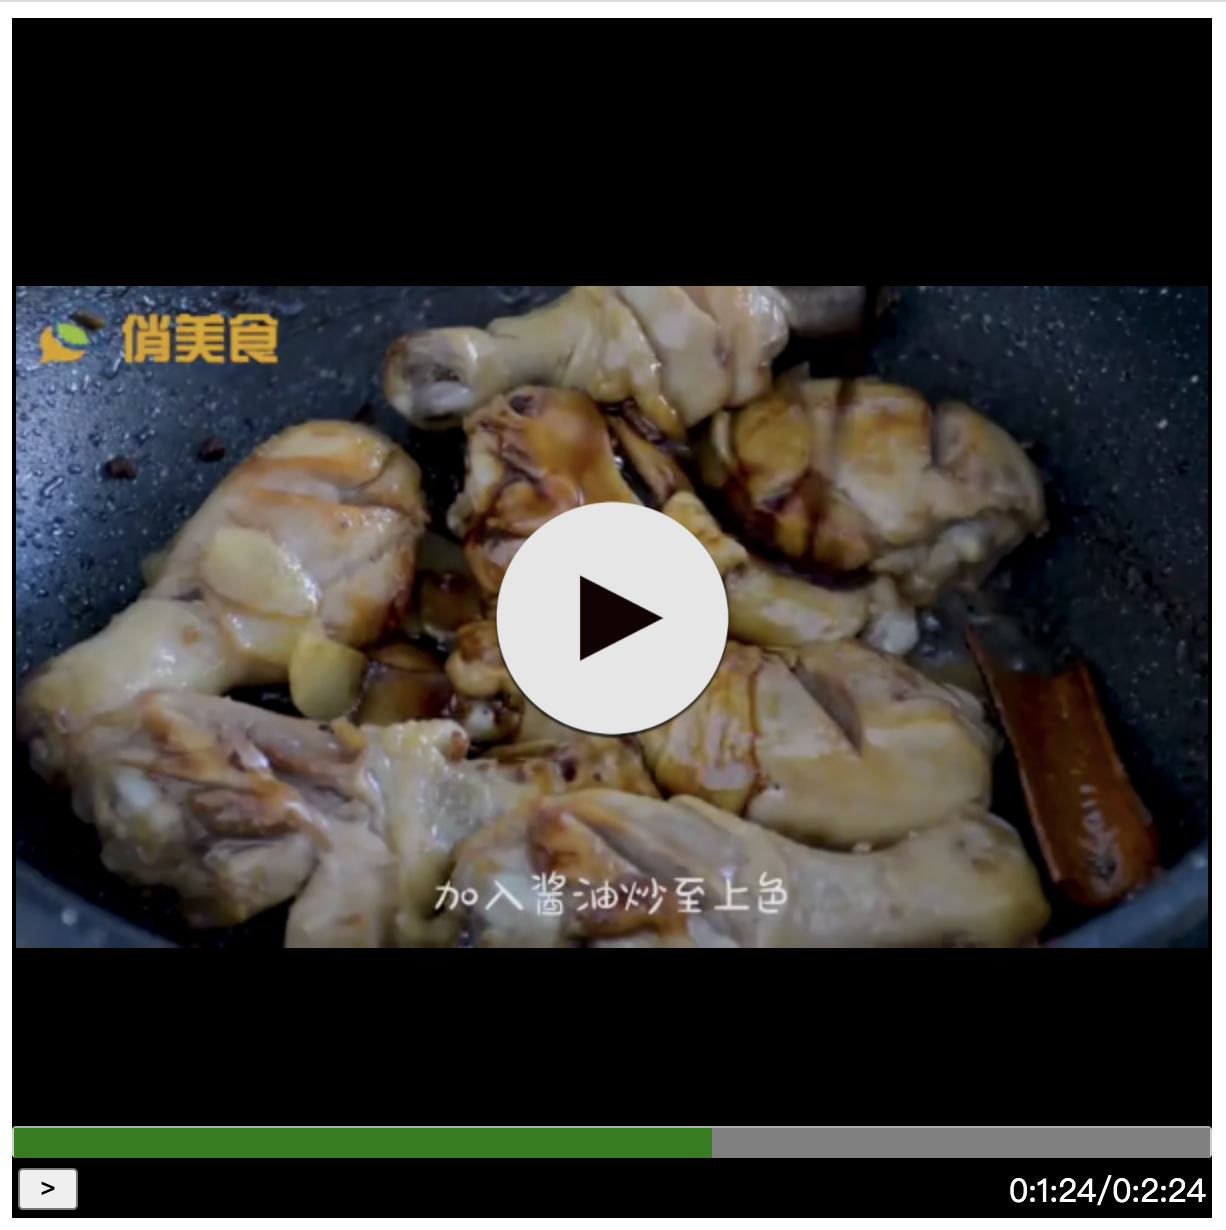
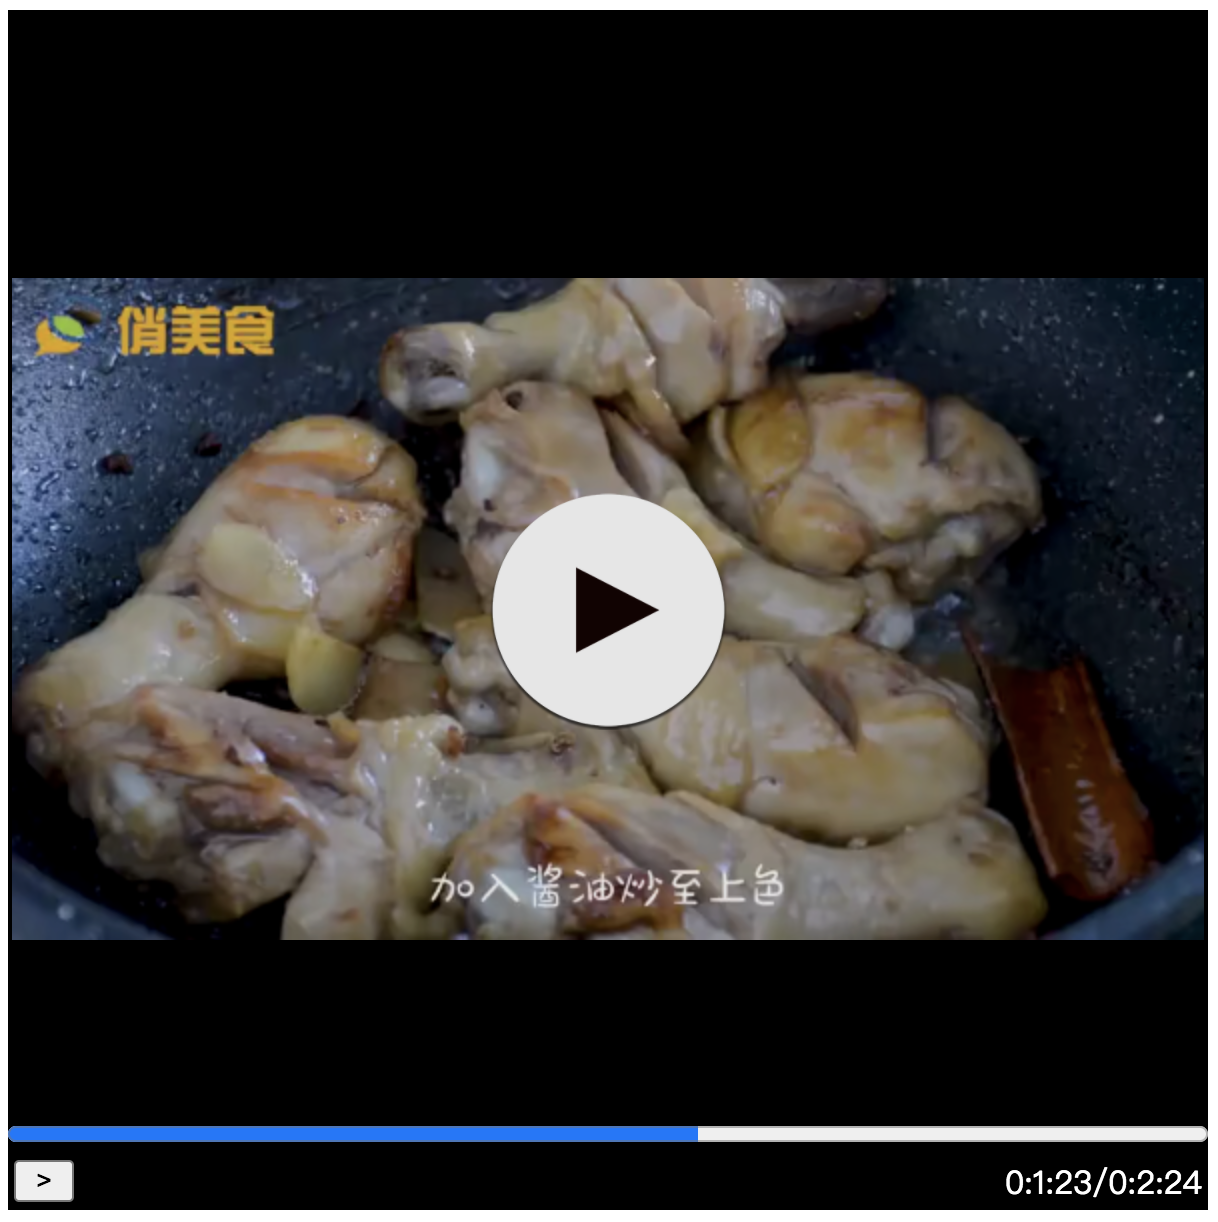
updateUI

diff --git a/dist/h265webjs.js b/dist/h265webjs.js
@@ -2213,16 +2213,16 @@ class H265webjsModule {
     }
 
     playUtilProgress() {
-        this.progress.style.borderRadius = '2px';
-        this.progress.style.borderLeft = '1px #ccc solid';
-        this.progress.style.borderRight = '1px #ccc solid';
-        this.progress.style.borderTop = '1px #aaa solid';
-        this.progress.style.backgroundColor = 'white';
+        // this.progress.style.borderRadius = '2px';
+        // this.progress.style.borderLeft = '1px #ccc solid';
+        // this.progress.style.borderRight = '1px #ccc solid';
+        // this.progress.style.borderTop = '1px #aaa solid';
+        // this.progress.style.backgroundColor = 'white';
         this.progress.style.width = '100%';
-        this.progress.style.setProperty("-webkit-progress-bar",
-            "background-color(#d7d7d7)");
-        this.progress.style.setProperty("-webkit-progress-value",
-            "background-color(#aadd6a)");
+        // this.progress.style.setProperty("-webkit-progress-bar",
+        //     "background-color(#d7d7d7)");
+        // this.progress.style.setProperty("-webkit-progress-value",
+        //     "background-color(#aadd6a)");
     }
 
     _makeMP4Player() {
@@ -2306,6 +2306,8 @@ class H265webjsModule {
 
         if (this.hlsConf.hlsType == def.PLAYER_IN_TYPE_M3U8_LIVE) {
             _this.progress.hidden = true;
+        } else {
+            _this.progress.hidden = false;
         }
         /**
          * SEEK Progress

diff --git a/dist/play.js b/dist/play.js
@@ -2213,16 +2213,16 @@ class H265webjsModule {
     }
 
     playUtilProgress() {
-        this.progress.style.borderRadius = '2px';
-        this.progress.style.borderLeft = '1px #ccc solid';
-        this.progress.style.borderRight = '1px #ccc solid';
-        this.progress.style.borderTop = '1px #aaa solid';
-        this.progress.style.backgroundColor = 'white';
+        // this.progress.style.borderRadius = '2px';
+        // this.progress.style.borderLeft = '1px #ccc solid';
+        // this.progress.style.borderRight = '1px #ccc solid';
+        // this.progress.style.borderTop = '1px #aaa solid';
+        // this.progress.style.backgroundColor = 'white';
         this.progress.style.width = '100%';
-        this.progress.style.setProperty("-webkit-progress-bar",
-            "background-color(#d7d7d7)");
-        this.progress.style.setProperty("-webkit-progress-value",
-            "background-color(#aadd6a)");
+        // this.progress.style.setProperty("-webkit-progress-bar",
+        //     "background-color(#d7d7d7)");
+        // this.progress.style.setProperty("-webkit-progress-value",
+        //     "background-color(#aadd6a)");
     }
 
     _makeMP4Player() {
@@ -2306,6 +2306,8 @@ class H265webjsModule {
 
         if (this.hlsConf.hlsType == def.PLAYER_IN_TYPE_M3U8_LIVE) {
             _this.progress.hidden = true;
+        } else {
+            _this.progress.hidden = false;
         }
         /**
          * SEEK Progress

diff --git a/h265webjs.js b/h265webjs.js
@@ -226,16 +226,16 @@ class H265webjsModule {
     }
 
     playUtilProgress() {
-        this.progress.style.borderRadius = '2px';
-        this.progress.style.borderLeft = '1px #ccc solid';
-        this.progress.style.borderRight = '1px #ccc solid';
-        this.progress.style.borderTop = '1px #aaa solid';
-        this.progress.style.backgroundColor = 'white';
+        // this.progress.style.borderRadius = '2px';
+        // this.progress.style.borderLeft = '1px #ccc solid';
+        // this.progress.style.borderRight = '1px #ccc solid';
+        // this.progress.style.borderTop = '1px #aaa solid';
+        // this.progress.style.backgroundColor = 'white';
         this.progress.style.width = '100%';
-        this.progress.style.setProperty("-webkit-progress-bar",
-            "background-color(#d7d7d7)");
-        this.progress.style.setProperty("-webkit-progress-value",
-            "background-color(#aadd6a)");
+        // this.progress.style.setProperty("-webkit-progress-bar",
+        //     "background-color(#d7d7d7)");
+        // this.progress.style.setProperty("-webkit-progress-value",
+        //     "background-color(#aadd6a)");
     }
 
     _makeMP4Player() {
